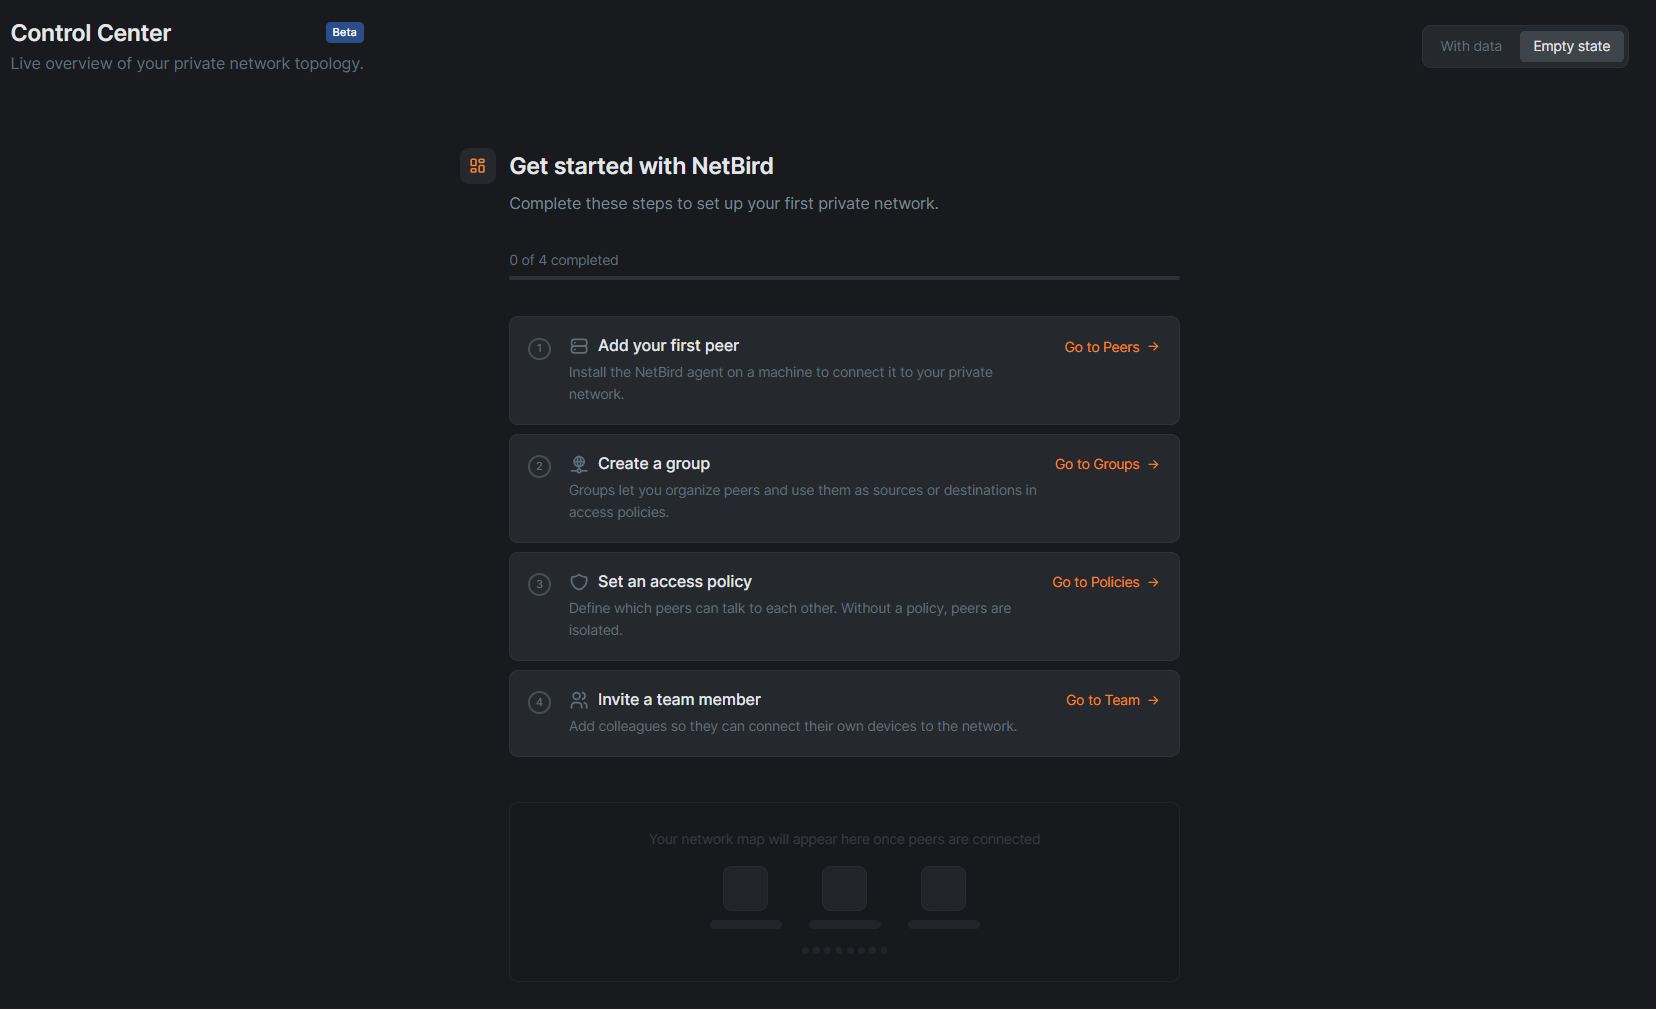
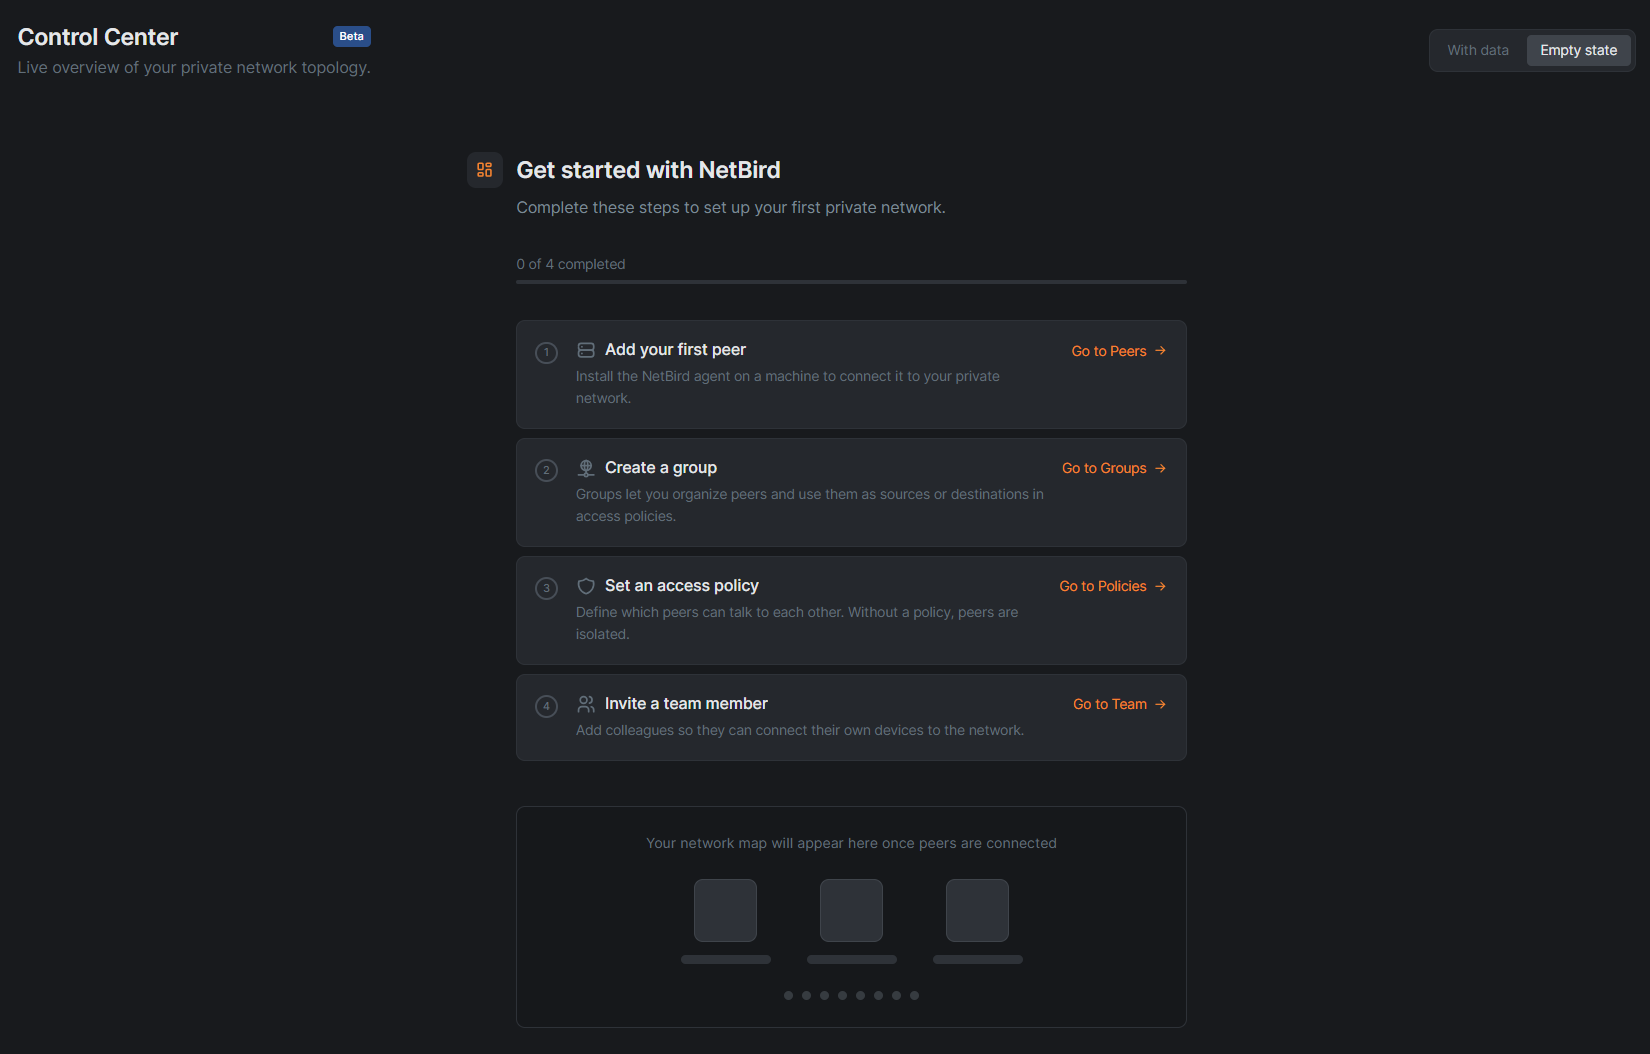
improve ghost network map visibility in control center empty state

diff --git a/src/components/control-center/GettingStartedChecklist.tsx b/src/components/control-center/GettingStartedChecklist.tsx
@@ -180,21 +180,21 @@ export default function GettingStartedChecklist() {
       </div>
 
       {/* Ghost network map preview */}
-      <div className="ml-11 mt-10 rounded-lg border border-nb-gray-900 bg-nb-gray-960 p-6 opacity-40 select-none">
-        <p className="text-xs text-nb-gray-500 mb-4 text-center">
+      <div className="ml-11 mt-10 rounded-lg border border-nb-gray-900 bg-nb-gray-960 p-6 select-none">
+        <p className="text-xs text-nb-gray-500 mb-6 text-center tracking-wide">
           Your network map will appear here once peers are connected
         </p>
-        <div className="flex items-center justify-center gap-6">
+        <div className="flex items-center justify-center gap-8">
           {["peer-1", "peer-2", "peer-3"].map((p) => (
-            <div key={p} className="flex flex-col items-center gap-2">
-              <div className="w-10 h-10 rounded-lg bg-nb-gray-900 border border-nb-gray-800" />
-              <div className="h-2 w-16 rounded bg-nb-gray-900" />
+            <div key={p} className="flex flex-col items-center gap-3">
+              <div className="w-14 h-14 rounded-lg bg-nb-gray-900 border border-nb-gray-800" />
+              <div className="h-2 w-20 rounded bg-nb-gray-900" />
             </div>
           ))}
         </div>
-        <div className="flex items-center justify-center gap-1 mt-4">
+        <div className="flex items-center justify-center gap-2 mt-6">
           {[...Array(8)].map((_, i) => (
-            <div key={i} className="w-1.5 h-1.5 rounded-full bg-nb-gray-900" />
+            <div key={i} className="w-2 h-2 rounded-full bg-nb-gray-850" />
           ))}
         </div>
       </div>
